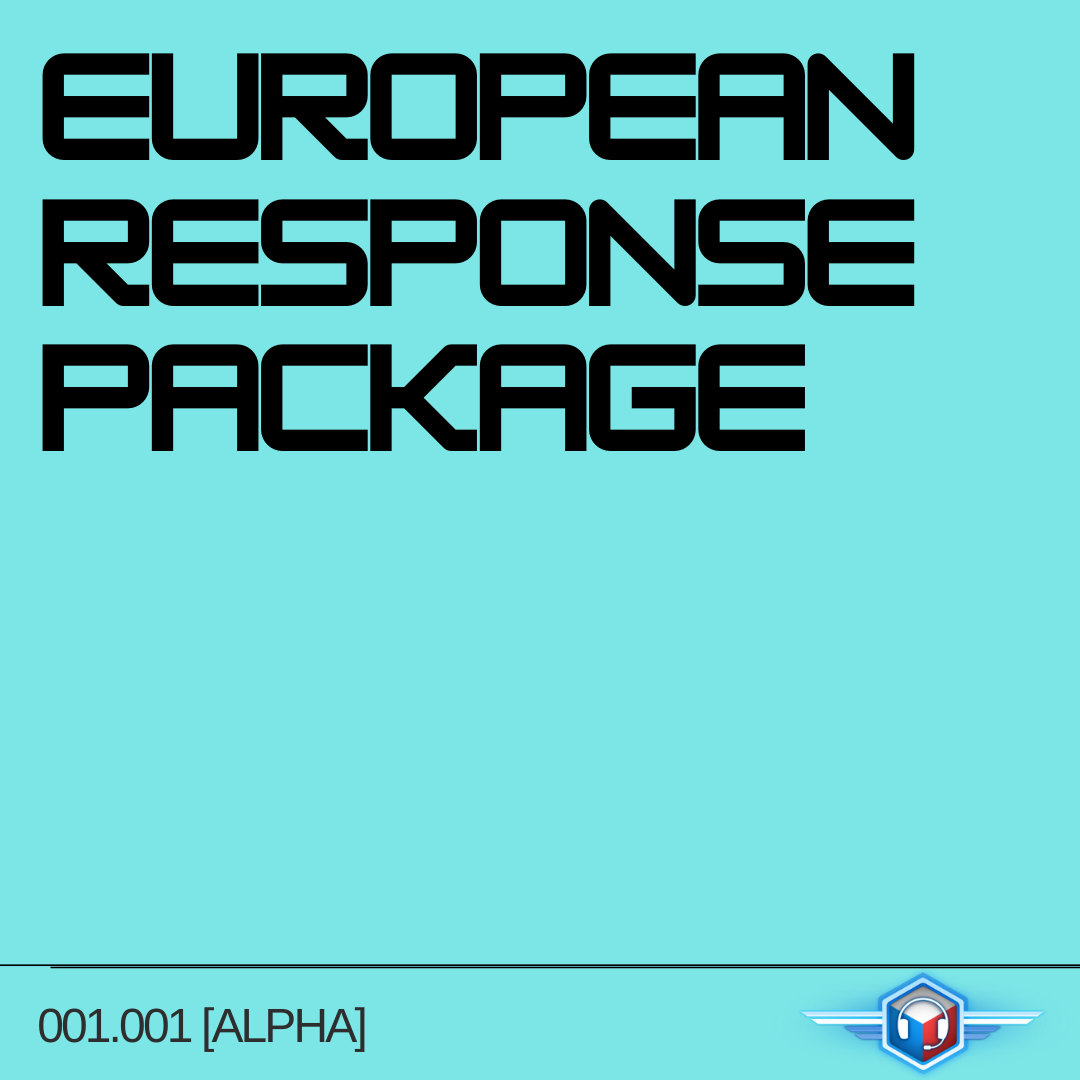
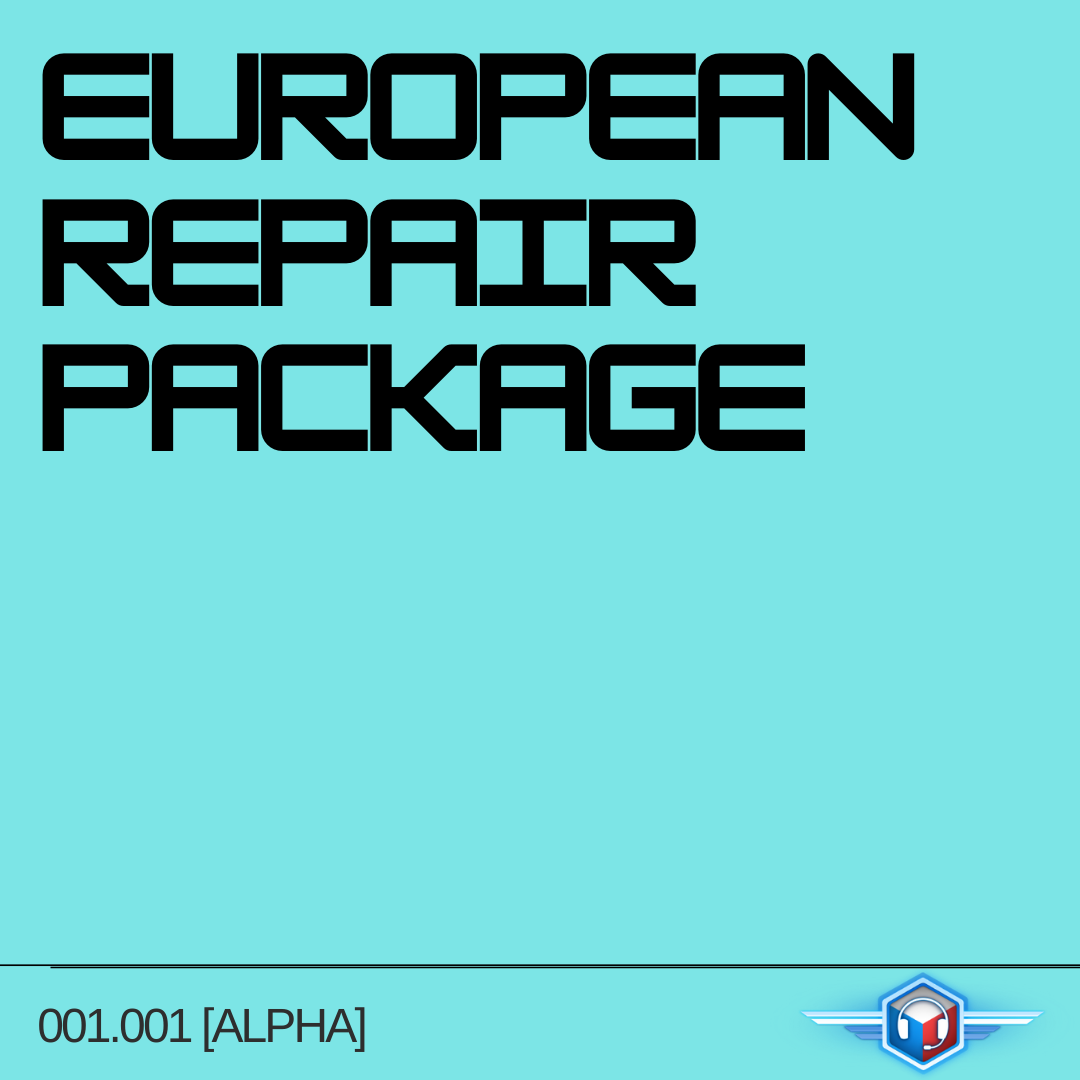
Change response to repair
Pack now intended to be more of a bug fix pack than new assets.

Changed region(s): [[0.3972, 0.1833, 0.8556, 0.3056], [0.2444, 0.1833, 0.3667, 0.3056]]

diff --git a/ERP/README.md b/ERP/README.md
@@ -1,2 +1,2 @@
-<h1>European Response Package (ERP), a mod for 112 Operator</h1>
+<h1>European Repair Package (ERP), a mod for 112 Operator</h1>
 <p>For full credits see <a href="https://soharicmedia.com/112/erp">Soharic Media website</a>.</p>
